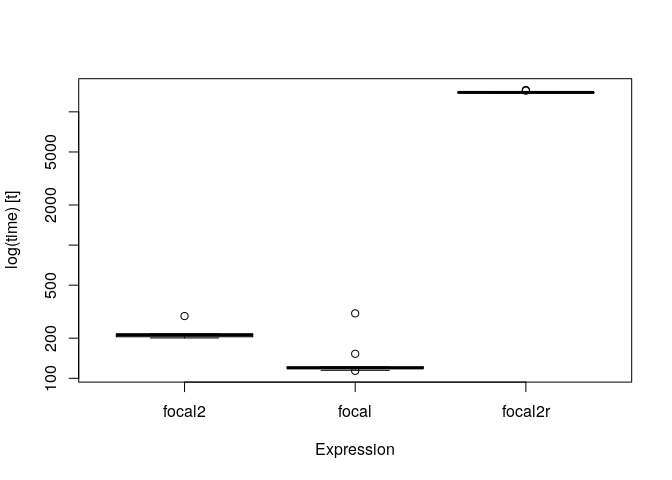
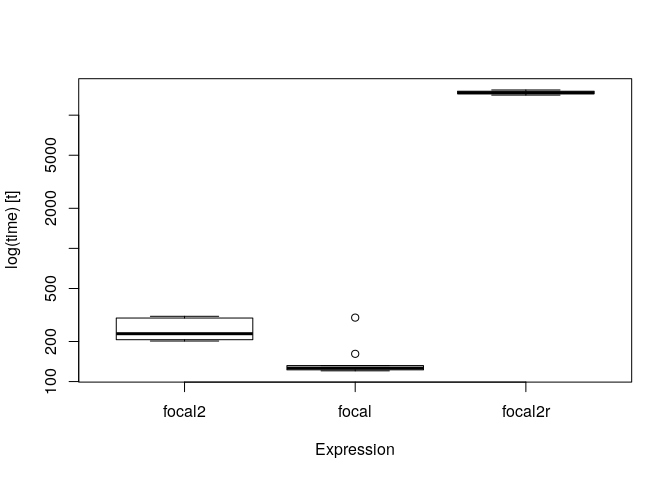
on cran

diff --git a/README.md b/README.md
@@ -18,6 +18,12 @@ includes functions for:
 Installation
 ------------
 
+CRAN version:
+
+``` r
+install.packages("starsExtra")
+```
+
 GitHub version:
 
 ``` r
@@ -55,7 +61,7 @@ carmel_mean15 = focal2(
 )
 ```
 
-The calculation takes: 0.240869 secs.
+The calculation takes: 0.2358196 secs.
 
 The original DEM and the filtered DEM can be combined and plotted with
 the following expressions:
@@ -93,9 +99,9 @@ res = microbenchmark(
 res
 #> Unit: milliseconds
 #>     expr        min         lq       mean     median         uq        max
-#>   focal2   200.8827   204.9814   217.6943   211.6963   215.4529   293.2120
-#>    focal   113.7559   118.8068   140.7752   119.7195   121.8459   307.1326
-#>  focal2r 13903.7589 13922.5144 14068.0538 13994.0778 14002.3742 14598.4475
+#>   focal2   201.5447   206.3138   248.3988   228.6944   299.8767   309.1590
+#>    focal   120.3913   122.4506   146.6245   126.1919   131.8618   302.1532
+#>  focal2r 14149.8486 14464.7892 14771.0747 14752.4548 15128.0667 15462.0797
 #>  neval cld
 #>     10  a 
 #>     10  a 

diff --git a/NEWS.md b/NEWS.md
@@ -1,4 +1,4 @@
-# starsExtra 0.0.3
+# starsExtra 0.0.3 (2020-04-22)
 
 * Initial version
 * Added 'focal2r' and 'focal2' functions
@@ -13,7 +13,5 @@
 
 # To do
 
-* Add flow accumulation function
-* Add pit fill function
-* Add river network function
 * Add slope function
+* Replace 'if' with 'switch' in C code
